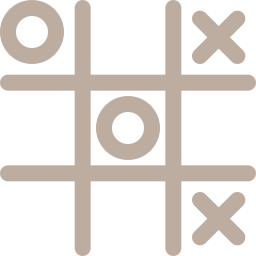
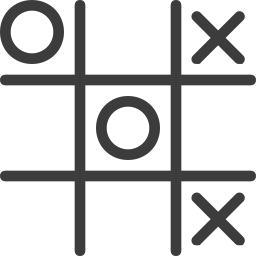
update page looks

diff --git a/app/page.tsx b/app/page.tsx
@@ -29,9 +29,9 @@ export default function Home() {
   }, []);
   return (
     <main className="flex flex-col p-24 items-center justify-center h-screen">
-      <div className="container flex flex-col align-middle items-center justify-center">
+      <div className="typewriter-container flex flex-col items-center">
         {showWelcome && (
-          <h2 className="text-center text-6xl">
+          <div className="text-6xl">
             <Link
               key="link"
               href="/about"
@@ -39,18 +39,18 @@ export default function Home() {
               className={`link ${pathname === "/about" ? "active" : ""}`}>
               <Typewriter text="Welcome to Gameboards" speed={50} />
             </Link>
-          </h2>
+          </div>
         )}
         {showAuthor && (
-          <h2 className="text-center">
+          <div className="">
             <Typewriter text="Written by Gabriel Koeb" speed={50} />
-          </h2>
+          </div>
         )}
 
         {showClick && (
-          <h2 className="text-center">
+          <div className="">
             <Typewriter text="Click above to enter" speed={50} />
-          </h2>
+          </div>
         )}
       </div>
     </main>

diff --git a/app/globals.css b/app/globals.css
@@ -4,8 +4,8 @@
 
 :root {
   --foreground-rgb: 0, 0, 0;
-  --background-start-rgb: 60, 60, 60;
-  --background-end-rgb: 60, 60, 60;
+  --background-start-rgb: 189, 173, 160;
+  --background-end-rgb: 189, 173, 160;
 }
 
 @media (prefers-color-scheme: dark) {
@@ -14,6 +14,10 @@
   }
 }
 
+.typewriter-container {
+  height: 200px;
+  overflow: auto;
+}
 body {
   color: rgb(var(--foreground-rgb));
   background: linear-gradient(
@@ -47,14 +51,21 @@ h1,
 p,
 a,
 h2 {
+  color: #3c3c3c;
+}
+span {
   color: #bdada0;
 }
 hr {
-  border: 1px solid #bdada0;
+  border: 1px solid #3c3c3c;
 }
 .game-box {
   border-color: #695a46;
 }
 .external-sites a {
   text-decoration: underline;
+}
+
+.header-component {
+  background-color: rgb(60, 60, 60);
 }

diff --git a/app/components/Header.tsx b/app/components/Header.tsx
@@ -2,7 +2,7 @@ import Link from "next/link";
 
 export default function Header() {
   return (
-    <header className="flex items-center justify-between bg-gray-900">
+    <header className="header-component flex items-center justify-between h-12">
       <Link className="flex items-center" href="/about">
         <span>gfkoe</span>
       </Link>
